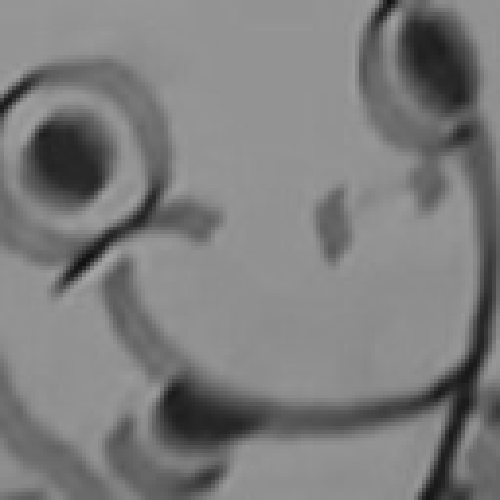
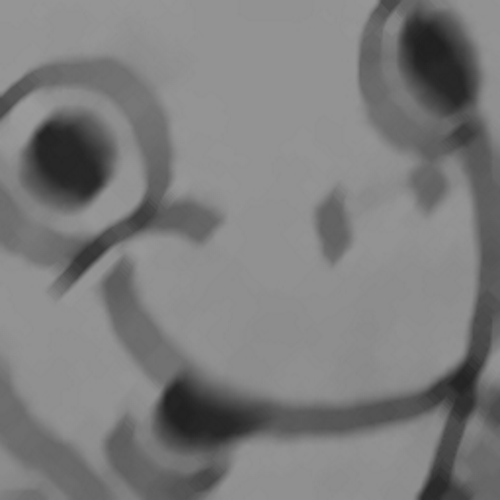
Update the fish

diff --git a/brand.html b/brand.html
@@ -101,7 +101,7 @@ extrahead: <link href="/css/frameworks/wing-col.css" rel="stylesheet">
 <div class="row">
   <div class="col">
     <h3>Fish</h3>
-    <iframe src="https://drive.google.com/file/d/0B7yhKsSIvzBIa1phYWlHSUdDVFU/preview" style="max-width: 100%; max-height: 100%; border: none;"></iframe>
+    <iframe src="https://drive.google.com/file/d/0B7yhKsSIvzBIOUtzRTZDSWJiWnc/preview" style="max-width: 100%; max-height: 100%; border: none;"></iframe>
     <p><a href="/faq#fish-thing">What is the fish?</a></p>
   </div>
   <div class="col">
@@ -110,7 +110,6 @@ extrahead: <link href="/css/frameworks/wing-col.css" rel="stylesheet">
     <p>If you need a dark version, feel free to re-colour using the options above.</p>
   </div>
 </div>
-
 <h2 id="nm">Name</h2>
 
 <div class="row">
